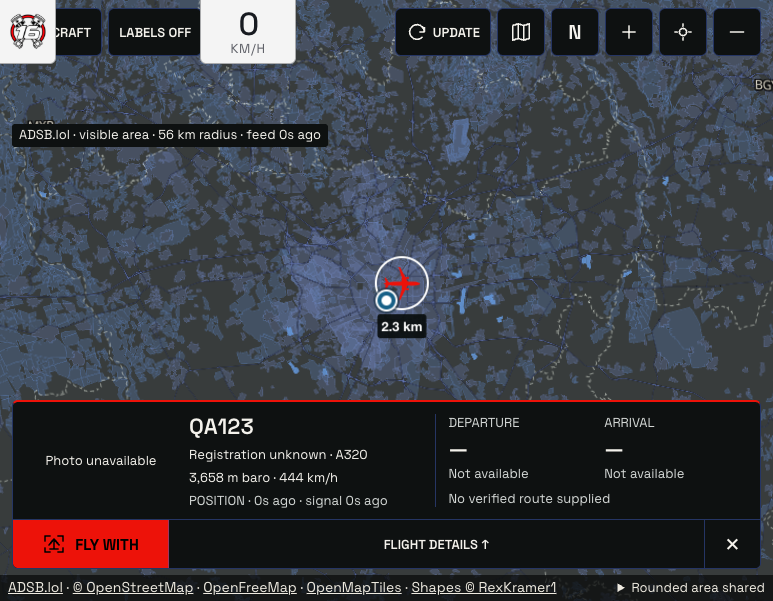
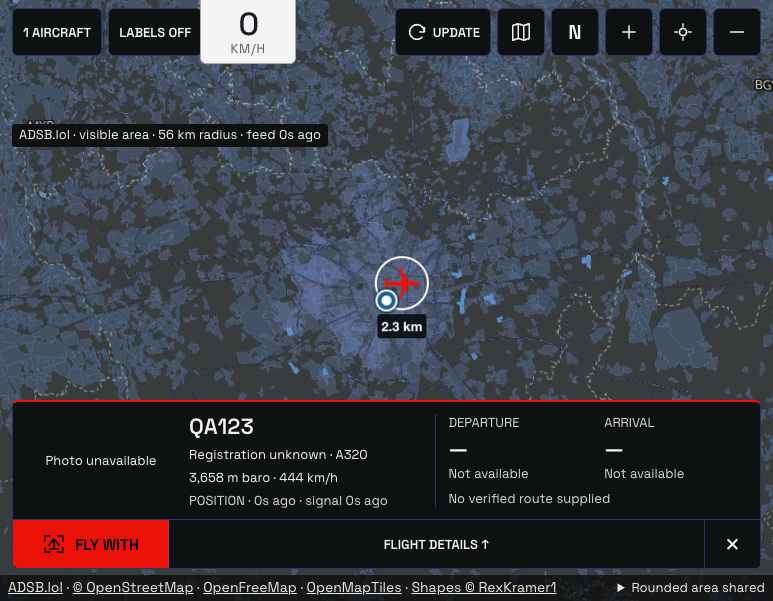
Record verified road refinement publication and acceptance evidence

Changed region(s): [[0.0, 0.0, 0.0931, 0.1198]]

diff --git a/CHANGELOG.md b/CHANGELOG.md
@@ -983,3 +983,7 @@ No dated releases exist yet.
 - 2026-09-19 10:05 `[fb6f880]`: Keep companion sensor enablement, ZERO, RECENTER VIEW and STOP in the initial compact phone viewport. Fit TRACE to available height, simplify small-phone steps, remove crowded short-plot ticks and put detailed readings below. Repair explicit local sensing after a terminated pairing without claiming display reconnection. Memoize TRACE: an actual React reconciler probe counts 1 component execution versus 601 for 600 unchanged parent updates, preserving reset/theme updates (not a CPU/GPU benchmark). Remove 1,111 bytes of unreferenced CSS. Final clean-lockfile native regression 973/973, affected checks 67/67, production 828 hashes and credits 189 pass. Browser layout and controlled handler flows pass; physical iPhone/Tesla acceptance stays open. Candidate build `20260919-1003.fb6f880`; canonical publication is in progress.
 
 - 2026-09-19 10:13 `[fb6f880]` `build 20260919-1003.fb6f880`: Publish the companion first-screen refinement through canonical preserve-existing FTP: 39 files / 6,430,157 bytes uploaded, 825 static files and 29 recordings reused with full verification, two previous assets retained, `ROOT_UPLOAD_ONLY`. All 11 HTTPS identity/hash/cache checks and canonical phone/reload checks pass with no browser warning/error. Isolate generated dependencies in a host-local lockfile cache after repeated Dropbox restoration of stale package files; preserve the old generated tree. Physical iPhone/Tesla acceptance remains open.
+
+- 2026-09-19 14:25 `[2487f2f]`: Complete the owner-selected road refinement (implementation `b0a24a7`): independent Music/Engine mute memory, bounded intentional soundtrack recovery, RPM/speed/gear instrument, complementary contextual controls, consumed outside-drawer dismissal, capability-led local TRACE, candidate-aware bounded ICE setup, SVG QR and scoped cache reset. Preserve existing source material and unrelated edits. Native regression 982/982 plus two additional deferred-START cases pass; affected controller/recovery 53/53, final rail/phone 6/6, production 827 hashes and 189 credits pass. Browser production paths cover compact Tesla geometry, independent mute, map gestures, outside dismissal and fixture QR; Web Audio measures Engine output after Music mute and zero after explicit Engine mute. A final stationary-map correction retracts the logo where contextual controls reuse its cell. Build `20260919-1425.2487f2f` is prepared; physical Tesla/iPhone/iPad and Tidal acceptance remain separate.
+
+- 2026-09-19 14:33 `[2487f2f]` `build 20260919-1425.2487f2f`: Publish and verify the final road refinement through preserve-existing canonical FTP: 38 files / 6,453,110 bytes, 825 static files and 29 recordings reused with full verification, two previous entry assets retained, `ROOT_UPLOAD_ONLY`. Bare and cache-busted HTTPS HTML plus main JS/CSS match local SHA-256; root responses are no-store/no-cache and cache MISS. Canonical browser paths pass for mode mutes, contextual controls, gestures, outside dismissal and fixture QR with no page exceptions. Physical Tesla/Tidal and iPhone/iPad sensor acceptance remain open.

diff --git a/docs/ROAD-REFINEMENT-2026-09-19.md b/docs/ROAD-REFINEMENT-2026-09-19.md
@@ -112,3 +112,26 @@ acceptance. A fixture or changed user agent cannot close those checks.
   `PLAYWRIGHT_MODULE` and `QA_URL`. Integration also works against production;
   audio/capability QA uses the development-only fixed-speed input. No diagnostic
   delivery is sent during these checks.
+
+The final stationary-map check found the retained brand cell covering Follow and
+part of the radar return button. Source `2487f2f` retracts that mark with resting
+chrome only on those map surfaces, preserving the visible speed readout. Final
+production browser paths pass again; focused rail/phone checks pass **6/6**.
+
+## Canonical publication — 14:33 Europe/Rome
+
+Final source **2487f2f**, build **20260919-1425.2487f2f**, VERSION **0.0.0**
+is published at `https://sedicivalvole.app/`. Source commits are pushed to main.
+The official preserve-existing publisher passes all gates: **38 files /
+6,453,110 bytes**, 825 unchanged static files and 29 unchanged Illobo recordings
+fully verified; two previous entry assets retained; no legacy deletion;
+`ROOT_UPLOAD_ONLY`. The preceding read-only preflight reports `remote_writes=NONE`.
+
+Bare canonical and cache-busted HTML both return HTTP 200, no-store/no-cache,
+`X-Proxy-Cache: MISS` and the final identity. HTML, main JS and CSS match local
+bytes and SHA-256 exactly; see [HTTPS evidence](qa/2026-09-19-road-refinement/live-identity.json).
+Canonical-browser fixture paths pass with no page exceptions; see
+[browser evidence](qa/2026-09-19-road-refinement/live-browser.json). Real pairing,
+mail and sensor readings are not simulated into a device acceptance claim.
+A controlled canonical reload also retains the final release identity and renders
+the Intro cache-reset action successfully.

diff --git a/docs/CURRENT-STATE.md b/docs/CURRENT-STATE.md
@@ -2,7 +2,7 @@
 
 ## Road refinement — September 19
 
-The [road-refinement record](ROAD-REFINEMENT-2026-09-19.md) tracks the current independent audio, complementary controls, Engine instrument, local sensors, QR and cache-reset changes. Publication and physical acceptance are recorded separately there; older build headings below are historical checkpoints.
+Canonical **20260919-1425.2487f2f** is published and verified. The [road-refinement record](ROAD-REFINEMENT-2026-09-19.md) tracks independent audio, complementary controls, the Engine instrument, local sensors, QR and cache reset. Automated/browser and HTTPS gates pass; physical Tesla/Tidal and iPhone/iPad acceptance remain separate. Older build headings below are historical checkpoints.
 
 ## Guided companion and shared appearance published — September 19
 
